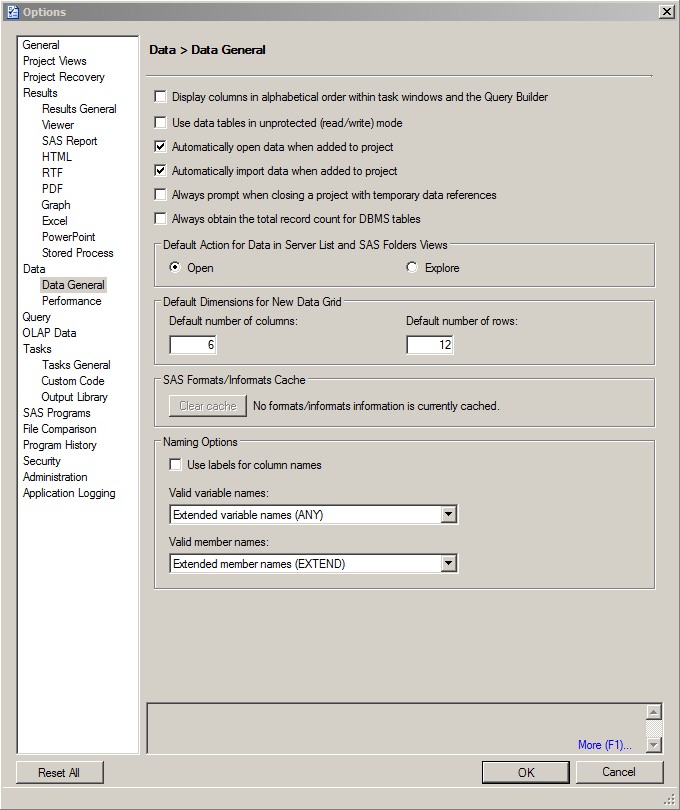
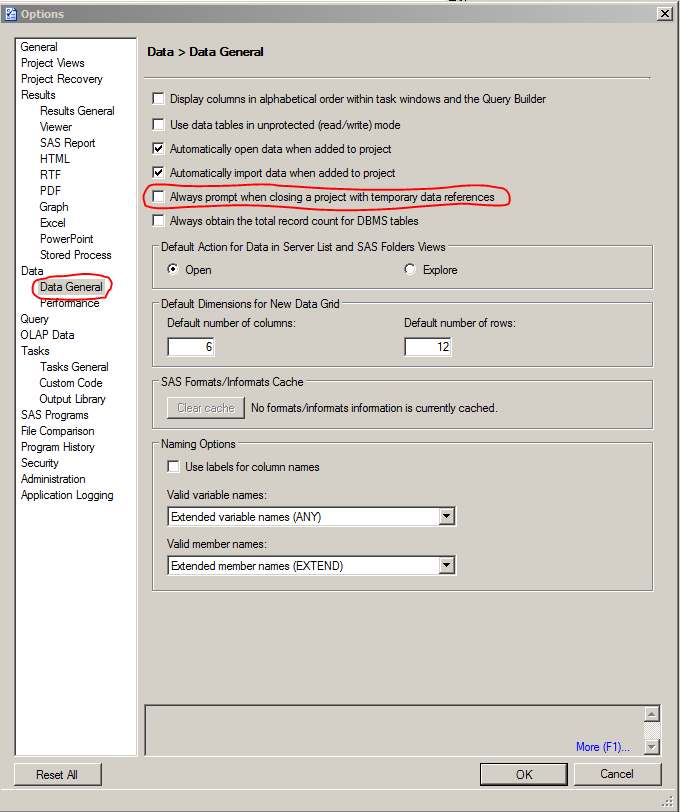
minor mod to sas.md and figure

diff --git a/sas.md b/sas.md
@@ -15,14 +15,6 @@
 - Stasjon: `Z` (ikke kritisk, men de fleste andre har valgt Z)
 - Mappe: `\\tos-sastest-07\SKDE`
 
-
-### 'Fikse' følgende feilmelding
-
-![Alt text](figurer/sas_error1.png)
-![Alt text](figurer/sas_error2.png)
-
-- Lag en mappe `Styles` under `C:\Users\ast046\AppData\Roaming\SAS\SharedSettings`
-
 ### Slå av advarsel om sletting av midlertidig datasett
 
 - Gå inn på ´Tools/Options.../Data/Data General/´ og huk vekk 'Always prompt when closing...'
